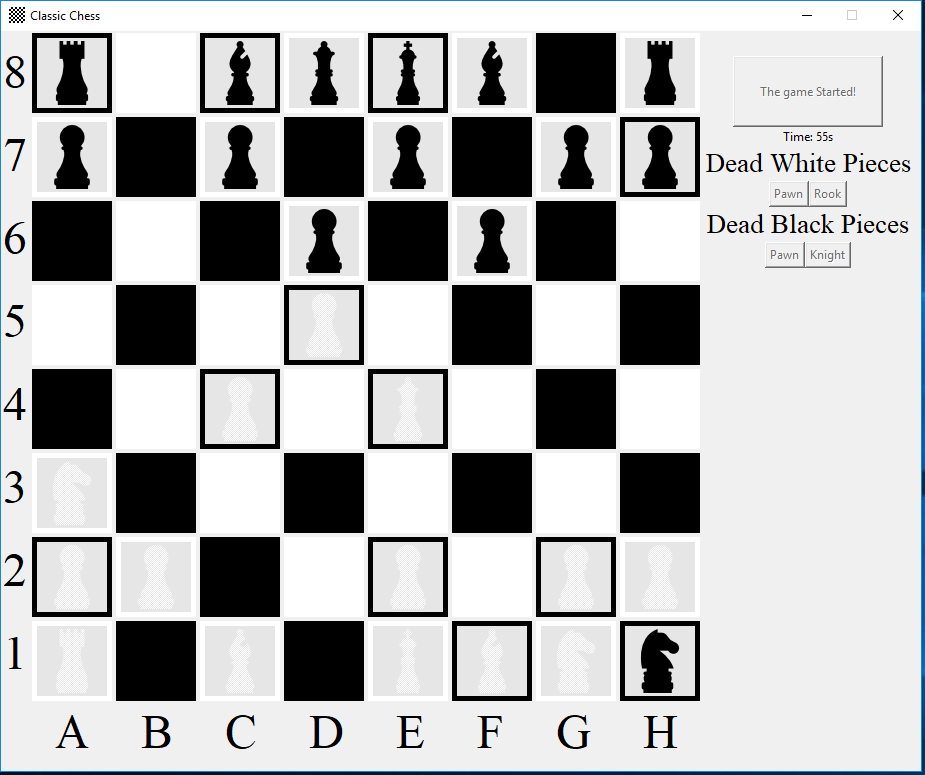
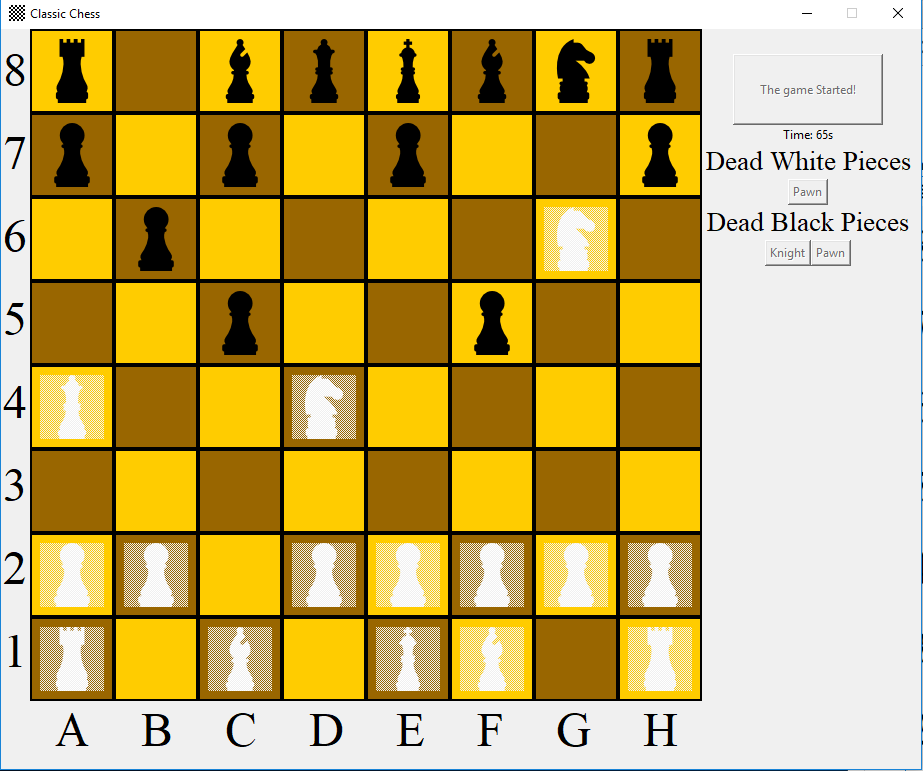
color update

diff --git a/chess/__main__.py b/chess/__main__.py
@@ -76,7 +76,7 @@ class App:
             else:
                 img = ImageTk.PhotoImage(Image.open(App.IMAGESBLACK[j.getname()]).convert("RGBA"))
             self.piecesposition[j.getid()] = Button(self.game, text=j.getname() + "\n" + j.getcolor(), relief=FLAT,
-                                                    command=lambda piece=j: self.movements(piece), image=img, bg="#E6E6E6")
+                                                    command=lambda piece=j: self.movements(piece), image=img)
             self.piecesposition[j.getid()].image = img
 
     # creates the buttons to move
@@ -161,7 +161,7 @@ class App:
             img = ImageTk.PhotoImage(Image.open(App.IMAGESWHITE[j.getname()]).convert("RGBA"))
         else:
             img = ImageTk.PhotoImage(Image.open(App.IMAGESBLACK[j.getname()]).convert("RGBA"))
-        self.piecesposition[j.getid()] = Button(self.game, text=j.getname() + "\n" + j.getcolor(), relief=FLAT, command=lambda: self.movements(j), image=img, bg="#E6E6E6")
+        self.piecesposition[j.getid()] = Button(self.game, text=j.getname() + "\n" + j.getcolor(), relief=FLAT, command=lambda: self.movements(j), image=img)
         self.piecesposition[j.getid()].image = img
         self.root.protocol("WM_DELETE_WINDOW", self.close)
         self.top.destroy()
@@ -173,21 +173,30 @@ class App:
                 self.piecesposition[r.getid()].config(state=DISABLED)
             else:
                 self.piecesposition[r.getid()].config(state=arg)
+            if r.getx() % 2 == 0:
+                colors = ("#996600", "#ffcc00")
+            else:
+                colors = ("#ffcc00", "#996600")
+            if r.gety() % 2 != 0:
+                color = colors[1]
+            else:
+                color = colors[0]
+            self.piecesposition[r.getid()].config(bg=color, activebackground=color, disabledforeground=color)
             self.piecesposition[r.getid()].grid(row=9 - r.gety() - 2, column=r.getx())
 
     # creates the canvas for the playground
     def gametable(self):
         for i in range(0, 8):
             if i % 2 == 0:
-                colors = ("white", "black")
+                colors = ("#996600", "#ffcc00")
             else:
-                colors = ("black", "white")
+                colors = ("#ffcc00", "#996600")
             for j in range(0, 8):
                 if j % 2 != 0:
                     color = colors[0]
                 else:
                     color = colors[1]
-                Canvas(self.game, width=80, height=80, bg=color).grid(row=i, column=j)
+                Canvas(self.game, width=80, height=80, bg=color, highlightbackground="black").grid(row=i, column=j)
         self.game.grid(row=0, column=1)
 
     # creates the full table
